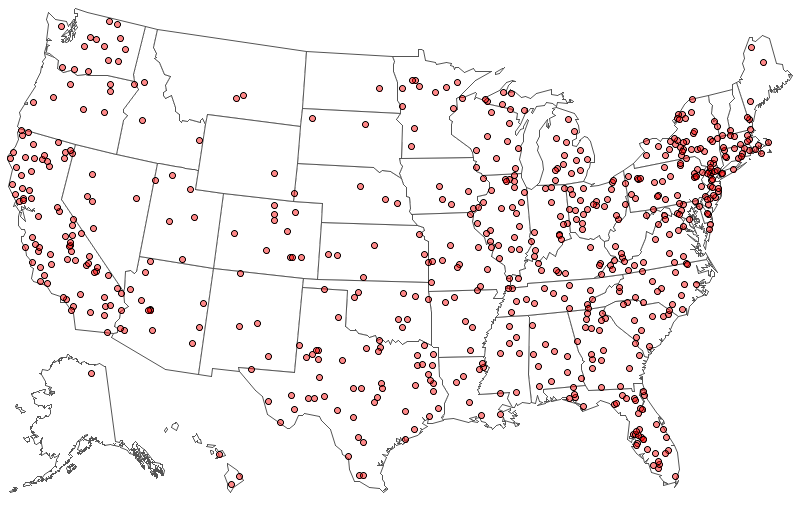
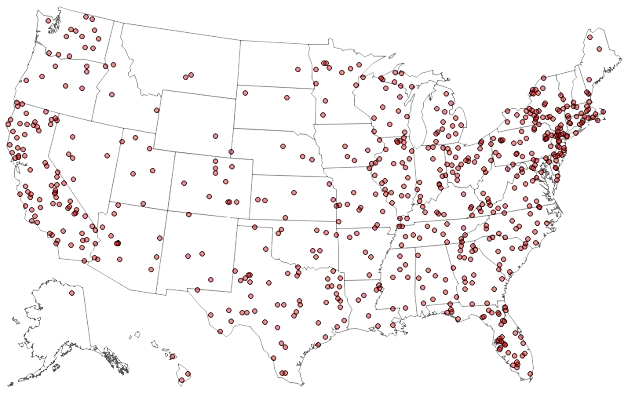
Added Transparent Backgrounds To All Map Graphic Images

diff --git a/client/src/components/Landing/LandingPage.jsx b/client/src/components/Landing/LandingPage.jsx
@@ -1,7 +1,7 @@
 import React, { useRef } from 'react';
 import '../../styles/landingPage.css';
 import GeoMapperImage from '../../assets/GeoMapperLogo.svg';
-import heatMap from '../../assets/heat_map.jpeg';
+import heatMap from '../../assets/heat_map.png';
 import spikeMap from '../../assets/spike_map.png';
 import symbolMap from '../../assets/symbol_map.png';
 import choroplethMap from '../../assets/choropleth_map.png';

diff --git a/client/src/components/MapCreation/TemplateSelection.jsx b/client/src/components/MapCreation/TemplateSelection.jsx
@@ -1,6 +1,6 @@
 import React, { useRef } from 'react';
 import '../../styles/templateSelection.css';
-import heatMap from '../../assets/heat_map.jpeg';
+import heatMap from '../../assets/heat_map.png';
 import spikeMap from '../../assets/spike_map.png';
 import symbolMap from '../../assets/symbol_map.png';
 import choroplethMap from '../../assets/choropleth_map.png';
